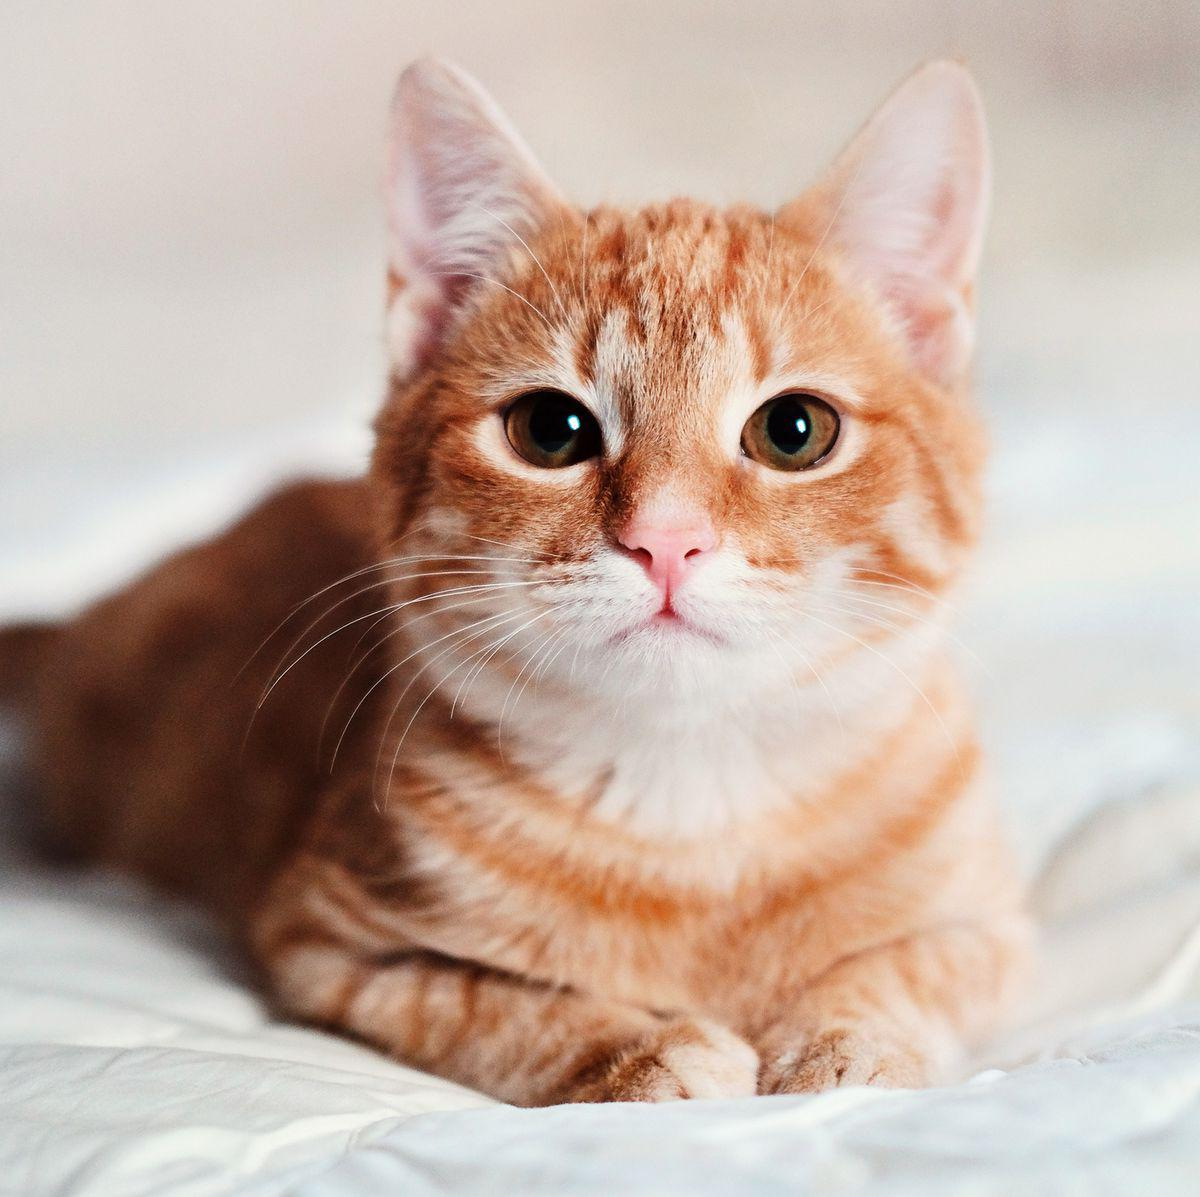
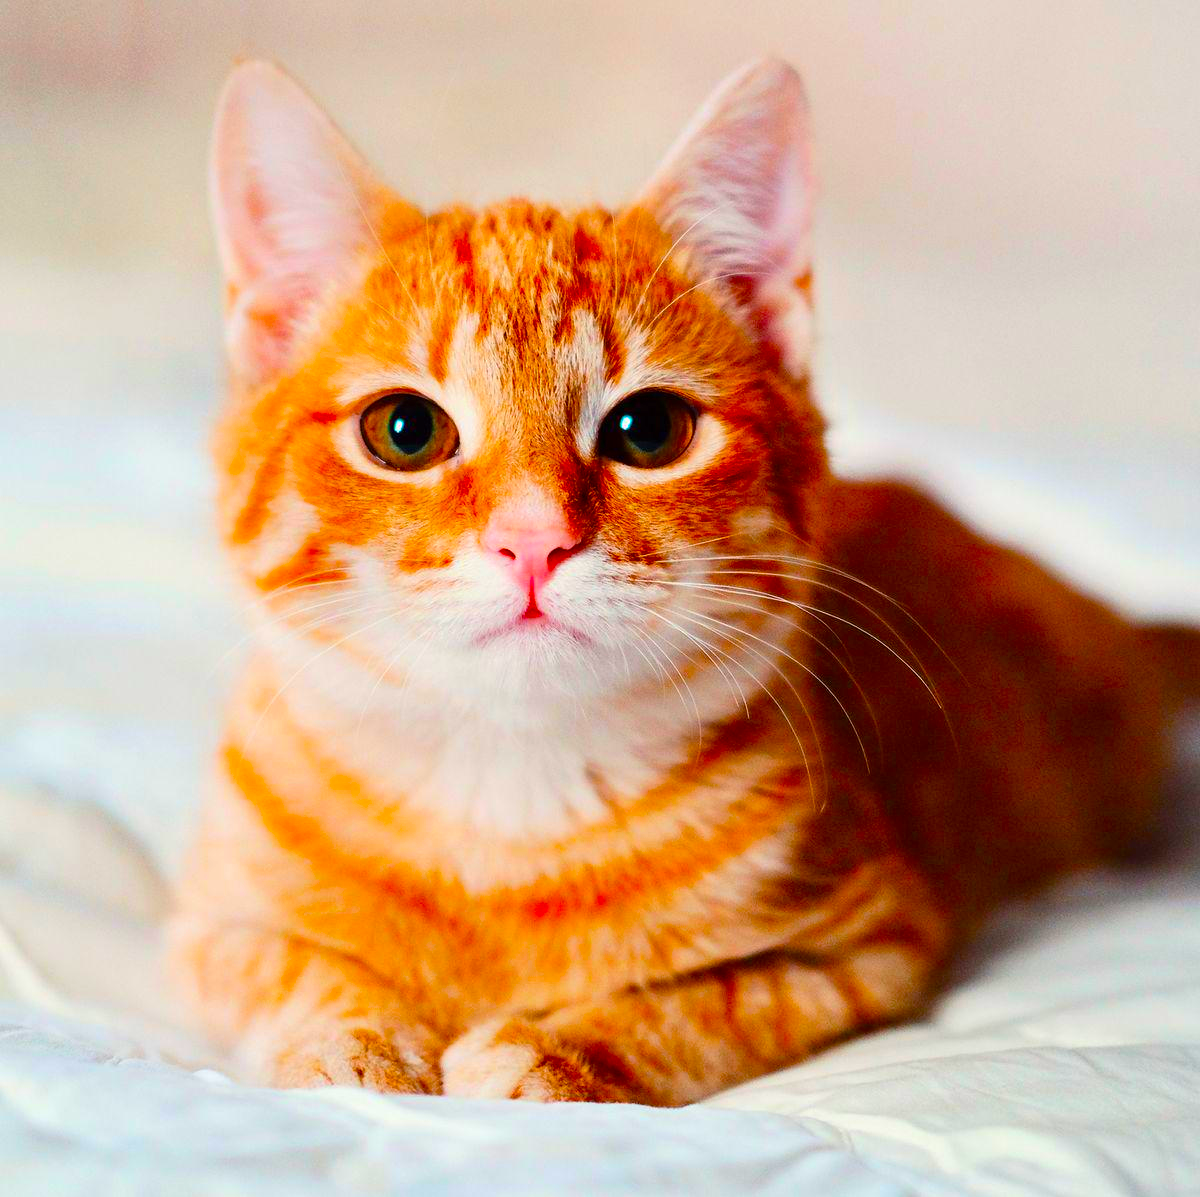
grayscale

diff --git a/Assets/IToy/Editor/Inspector.cs b/Assets/IToy/Editor/Inspector.cs
@@ -1,6 +1,7 @@
 using System.IO;
 using UnityEditor;
 using UnityEngine;
+using UnityEngine.UI;
 
 namespace IToy
 {
@@ -16,22 +17,13 @@ namespace IToy
 
         Texture2D preview;
 
-        public Material flipHorizontalMaterial;
+        Material _flipHorizontalMat;
+        Material _flipVerticalMat;
+        Material _cropMat;
 
         private void OnEnable()
         {
-            control = (IToyControl)target;
-            logo = AssetDatabase.LoadAssetAtPath<Texture2D>("Assets/IToy/Data/logo.png");
-            Shader shader = AssetDatabase.LoadAssetAtPath<Shader>("Assets/IToy/Shaders/FlipHorizontal.shader");
-            flipHorizontalMaterial = new Material(shader);
-
-            // Create a texture. Texture size does not matter, since
-            // LoadImage will replace with the size of the incoming image.
-            original = new Texture2D(0, 0);
-
-            ImageConversion.LoadImage(original, control.Original);
-
-            preview = AssetDatabase.LoadAssetAtPath<Texture2D>("Assets/Resources/cat.png");
+            Init();
         }
 
         private void OnDisable()
@@ -84,28 +76,52 @@ namespace IToy
 
             if (serializedObject.ApplyModifiedProperties())
             {
-                RedrawPreview();
+                DrawPreview();
             }
         }
 
-        void RedrawPreview()
+        void Init()
+        {
+            control = (IToyControl)target;
+            logo = AssetDatabase.LoadAssetAtPath<Texture2D>("Assets/IToy/Data/logo.png");
+
+            #region Init shaders
+            Shader flipHorizontalShader = AssetDatabase.LoadAssetAtPath<Shader>("Assets/IToy/Shaders/FlipHorizontal.shader");
+            Shader flipVerticalShader = AssetDatabase.LoadAssetAtPath<Shader>("Assets/IToy/Shaders/FlipVertical.shader");
+            Shader cropShader = AssetDatabase.LoadAssetAtPath<Shader>("Assets/IToy/Shaders/Crop.shader");
+            _flipHorizontalMat = new Material(flipHorizontalShader);
+            _flipVerticalMat = new Material(flipVerticalShader);
+            _cropMat = new Material(cropShader);
+            #endregion
+
+            // Create a texture. Texture size does not matter, since
+            // LoadImage will replace with the size of the incoming image.
+            original = new Texture2D(0, 0);
+
+            ImageConversion.LoadImage(original, control.Original);
+
+            DrawPreview();
+        }
+
+        void DrawPreview()
         {
             preview = original;
             if(control.Transform.FlipHorizontal)
-            {
-                preview = ApplyShader(preview, flipHorizontalMaterial);
-            }
-        }
+                preview = Utility.ApplyShader(preview, _flipHorizontalMat);
+            if (control.Transform.FlipVertical)
+                preview = Utility.ApplyShader(preview, _flipVerticalMat);
 
-        Texture2D ApplyShader(Texture2D inputTexture, Material shaderMaterial)
-        {
-            Texture2D res = new Texture2D(inputTexture.width, inputTexture.height);
-            RenderTexture rt = RenderTexture.GetTemporary(inputTexture.width, inputTexture.height);
-            Graphics.Blit(inputTexture, rt, shaderMaterial);
-            RenderTexture.active = rt;
-            res.ReadPixels(new Rect(0, 0, rt.width, rt.height), 0, 0);
-            res.Apply();
-            return res;
+            int saturationLevel = serializedObject.FindProperty("Correction").FindPropertyRelative("Saturation").intValue;
+            if(saturationLevel != 0)
+            {
+                _cropMat.SetInt("_Saturation", saturationLevel);
+                preview = Utility.ApplyShader(preview, _cropMat);
+            }
+
+            //byte[] file = preview.EncodeToPNG();
+            //File.WriteAllBytes("Assets/Resources/cat.png", file);
+            //AssetDatabase.Refresh();
+            _cropMat.RevertAllPropertyOverrides();
         }
 
         void SelfDestruct(IToyControl control)

diff --git a/Assets/IToy/Custom/Utility.cs b/Assets/IToy/Custom/Utility.cs
@@ -1,4 +1,5 @@
 using UnityEditor;
+using UnityEngine;
 
 namespace IToy
 {
@@ -13,6 +14,17 @@ namespace IToy
                 ti.isReadable = true;
 
             ti.SaveAndReimport();
+        }
+
+        public static Texture2D ApplyShader(Texture2D inputTexture, Material shaderMaterial)
+        {
+            Texture2D res = new Texture2D(inputTexture.width, inputTexture.height);
+            RenderTexture rt = RenderTexture.GetTemporary(inputTexture.width, inputTexture.height);
+            Graphics.Blit(inputTexture, rt, shaderMaterial);
+            RenderTexture.active = rt;
+            res.ReadPixels(new Rect(0, 0, rt.width, rt.height), 0, 0);
+            res.Apply();
+            return res;
         }
     }
 }

diff --git a/Assets/IToy/Editor/Context.cs b/Assets/IToy/Editor/Context.cs
@@ -139,6 +139,8 @@ namespace IToy
             IToyControl control = ScriptableObject.CreateInstance<IToyControl>();
             control.Original = originalAsset;
             control.Current = currentAsset;
+            control.Correction = new IToy.Correction();
+            control.Correction.Saturation = -100;
             AssetDatabase.CreateAsset(control, Path.Combine(assetDirPath, assetName + ".asset"));
             AssetDatabase.SaveAssets();
         }
